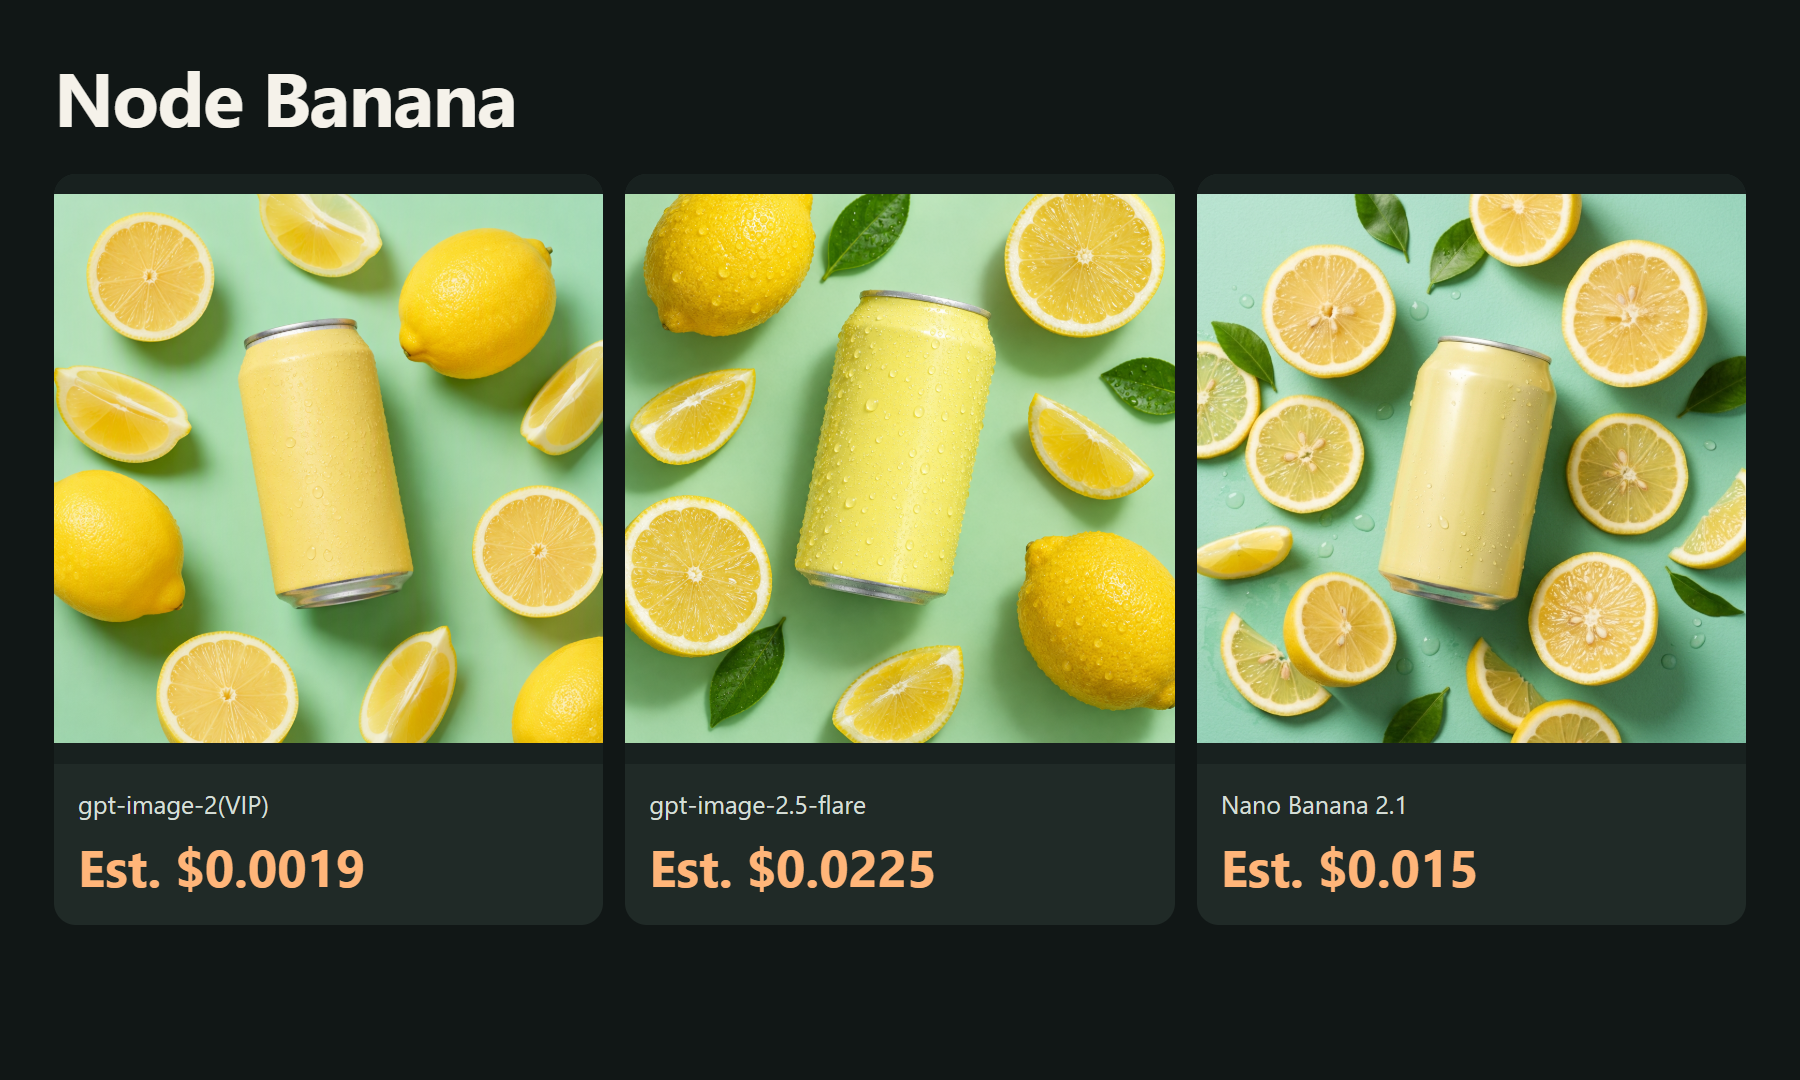
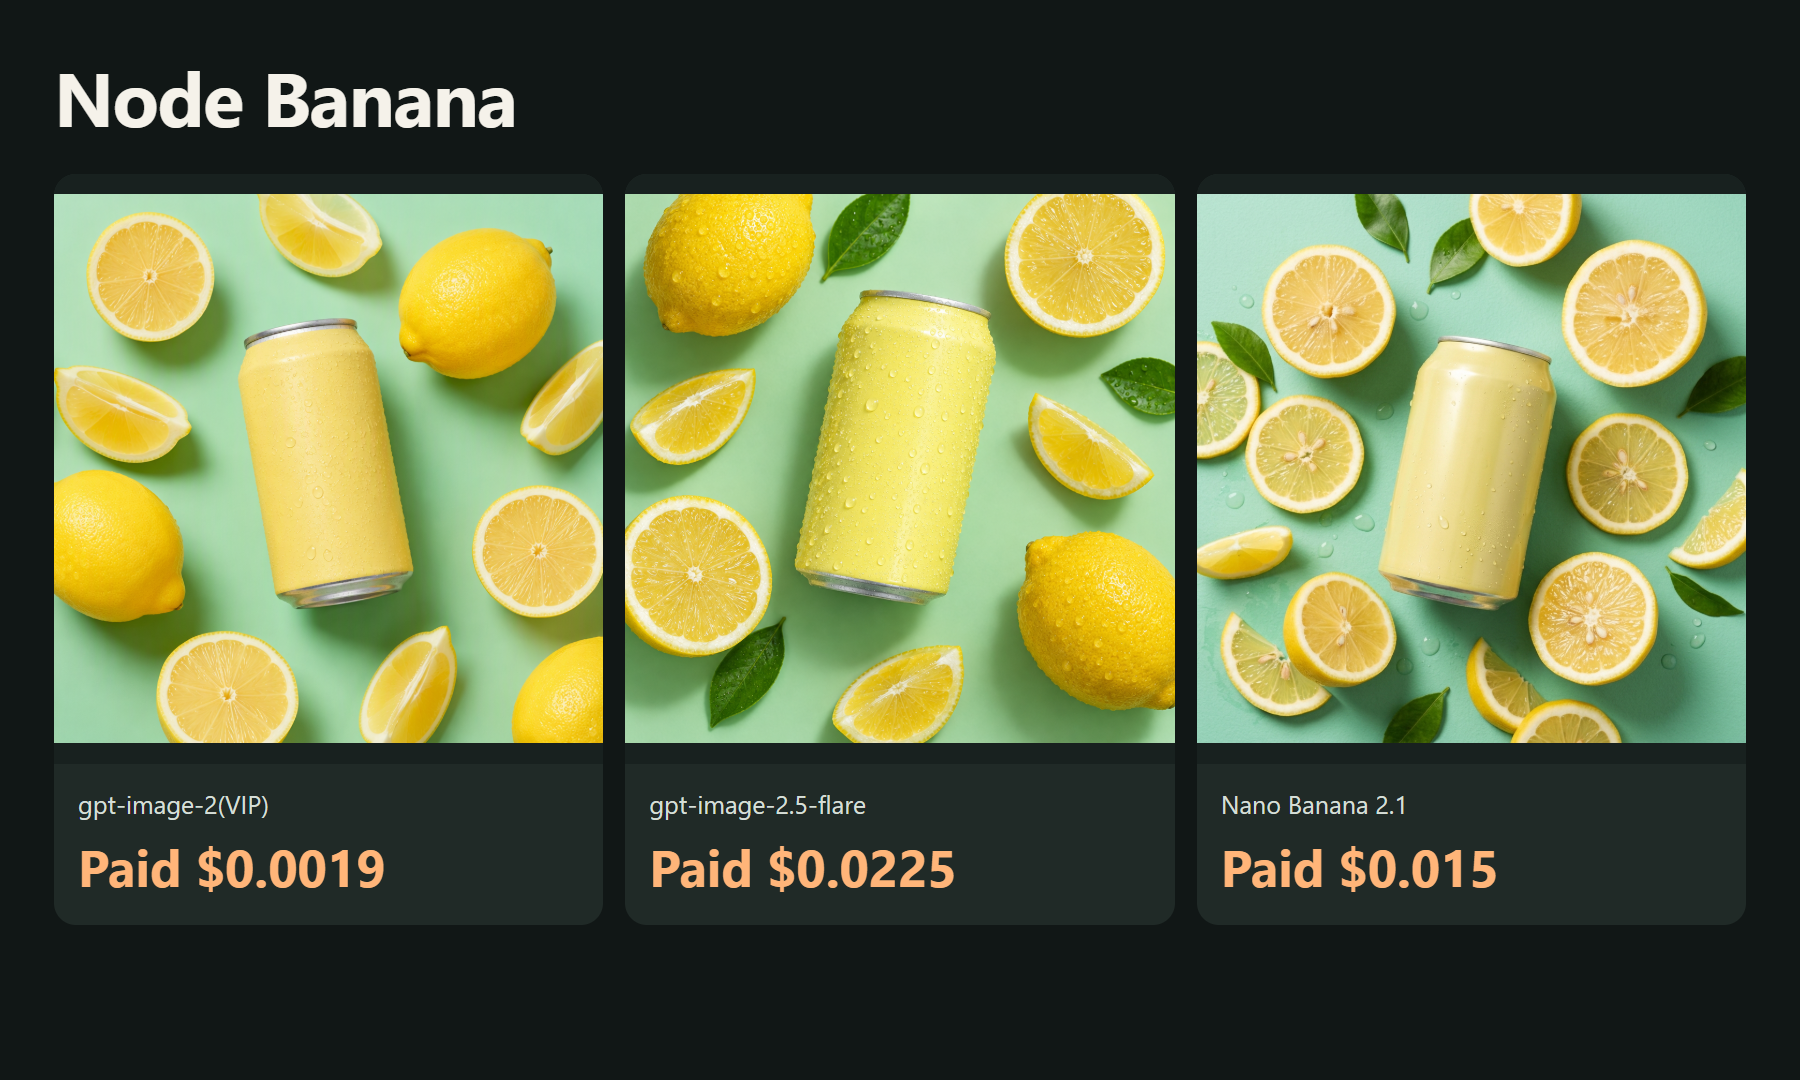
Publish original bilingual ToAPIs media examples, model pricing and real outputs

Changed region(s): [[0.0311, 0.7639, 0.2178, 0.825], [0.6844, 0.7639, 0.84, 0.825], [0.3733, 0.7639, 0.5289, 0.825]]

diff --git a/screenshots/cn/01-image-cases.html b/screenshots/cn/01-image-cases.html
@@ -1,1 +1,1 @@
-<!doctype html><html lang="zh-CN"><meta charset="utf-8"><title>Node Banana</title><style>*{box-sizing:border-box}html,body{margin:0;width:1800px;height:1080px;overflow:hidden}body{background:#111716;color:#f5f2ea;font-family:"Segoe UI","Microsoft YaHei",sans-serif}.page{padding:54px 54px 40px}h1{font-size:76px;line-height:1.1;margin:0 0 36px;font-weight:650;letter-spacing:-1.5px}.grid{display:grid;gap:22px}.case{background:#202a27;border-radius:22px;overflow:hidden}.case img{display:block;width:100%;height:590px;object-fit:contain;background:#18211f}.caption{padding:24px 24px 28px}.model{font-size:25px;line-height:1.3;color:#d5dfd7;white-space:nowrap}.price{font-size:51px;line-height:1.2;color:#ffb579;font-weight:650;margin-top:16px}.video .case img{height:610px}.video .model{font-size:30px}.video .price{font-size:50px}</style><main class="page "><h1>Node Banana</h1><div class="grid" style="grid-template-columns:repeat(3,1fr)"><section class="case"><img src="../../examples/gpt-image-2-vip.png"><div class="caption"><div class="model">gpt-image-2(VIP)</div><div class="price">预计 $0.0019</div></div></section><section class="case"><img src="../../examples/gpt-image-2-5-flare.png"><div class="caption"><div class="model">gpt-image-2.5-flare</div><div class="price">预计 $0.0225</div></div></section><section class="case"><img src="../../examples/gemini-nano-banana-2-1.png"><div class="caption"><div class="model">Nano Banana 2.1</div><div class="price">预计 $0.015</div></div></section></div></main></html>
+<!doctype html><html lang="zh-CN"><meta charset="utf-8"><title>Node Banana</title><style>*{box-sizing:border-box}html,body{margin:0;width:1800px;height:1080px;overflow:hidden}body{background:#111716;color:#f5f2ea;font-family:"Segoe UI","Microsoft YaHei",sans-serif}.page{padding:54px 54px 40px}h1{font-size:76px;line-height:1.1;margin:0 0 36px;font-weight:650;letter-spacing:-1.5px}.grid{display:grid;gap:22px}.case{background:#202a27;border-radius:22px;overflow:hidden}.case img{display:block;width:100%;height:590px;object-fit:contain;background:#18211f}.caption{padding:24px 24px 28px}.model{font-size:25px;line-height:1.3;color:#d5dfd7;white-space:nowrap}.price{font-size:51px;line-height:1.2;color:#ffb579;font-weight:650;margin-top:16px}.video .case img{height:610px}.video .model{font-size:30px}.video .price{font-size:50px}</style><main class="page "><h1>Node Banana</h1><div class="grid" style="grid-template-columns:repeat(3,1fr)"><section class="case"><img src="../../examples/gpt-image-2-vip.png"><div class="caption"><div class="model">gpt-image-2(VIP)</div><div class="price">实扣 $0.0019</div></div></section><section class="case"><img src="../../examples/gpt-image-2-5-flare.png"><div class="caption"><div class="model">gpt-image-2.5-flare</div><div class="price">实扣 $0.0225</div></div></section><section class="case"><img src="../../examples/gemini-nano-banana-2-1.png"><div class="caption"><div class="model">Nano Banana 2.1</div><div class="price">实扣 $0.015</div></div></section></div></main></html>

diff --git a/screenshots/en/01-image-cases.html b/screenshots/en/01-image-cases.html
@@ -1,1 +1,1 @@
-<!doctype html><html lang="en"><meta charset="utf-8"><title>Node Banana</title><style>*{box-sizing:border-box}html,body{margin:0;width:1800px;height:1080px;overflow:hidden}body{background:#111716;color:#f5f2ea;font-family:"Segoe UI","Microsoft YaHei",sans-serif}.page{padding:54px 54px 40px}h1{font-size:76px;line-height:1.1;margin:0 0 36px;font-weight:650;letter-spacing:-1.5px}.grid{display:grid;gap:22px}.case{background:#202a27;border-radius:22px;overflow:hidden}.case img{display:block;width:100%;height:590px;object-fit:contain;background:#18211f}.caption{padding:24px 24px 28px}.model{font-size:25px;line-height:1.3;color:#d5dfd7;white-space:nowrap}.price{font-size:51px;line-height:1.2;color:#ffb579;font-weight:650;margin-top:16px}.video .case img{height:610px}.video .model{font-size:30px}.video .price{font-size:50px}</style><main class="page "><h1>Node Banana</h1><div class="grid" style="grid-template-columns:repeat(3,1fr)"><section class="case"><img src="../../examples/gpt-image-2-vip.png"><div class="caption"><div class="model">gpt-image-2(VIP)</div><div class="price">Est. $0.0019</div></div></section><section class="case"><img src="../../examples/gpt-image-2-5-flare.png"><div class="caption"><div class="model">gpt-image-2.5-flare</div><div class="price">Est. $0.0225</div></div></section><section class="case"><img src="../../examples/gemini-nano-banana-2-1.png"><div class="caption"><div class="model">Nano Banana 2.1</div><div class="price">Est. $0.015</div></div></section></div></main></html>
+<!doctype html><html lang="en"><meta charset="utf-8"><title>Node Banana</title><style>*{box-sizing:border-box}html,body{margin:0;width:1800px;height:1080px;overflow:hidden}body{background:#111716;color:#f5f2ea;font-family:"Segoe UI","Microsoft YaHei",sans-serif}.page{padding:54px 54px 40px}h1{font-size:76px;line-height:1.1;margin:0 0 36px;font-weight:650;letter-spacing:-1.5px}.grid{display:grid;gap:22px}.case{background:#202a27;border-radius:22px;overflow:hidden}.case img{display:block;width:100%;height:590px;object-fit:contain;background:#18211f}.caption{padding:24px 24px 28px}.model{font-size:25px;line-height:1.3;color:#d5dfd7;white-space:nowrap}.price{font-size:51px;line-height:1.2;color:#ffb579;font-weight:650;margin-top:16px}.video .case img{height:610px}.video .model{font-size:30px}.video .price{font-size:50px}</style><main class="page "><h1>Node Banana</h1><div class="grid" style="grid-template-columns:repeat(3,1fr)"><section class="case"><img src="../../examples/gpt-image-2-vip.png"><div class="caption"><div class="model">gpt-image-2(VIP)</div><div class="price">Paid $0.0019</div></div></section><section class="case"><img src="../../examples/gpt-image-2-5-flare.png"><div class="caption"><div class="model">gpt-image-2.5-flare</div><div class="price">Paid $0.0225</div></div></section><section class="case"><img src="../../examples/gemini-nano-banana-2-1.png"><div class="caption"><div class="model">Nano Banana 2.1</div><div class="price">Paid $0.015</div></div></section></div></main></html>

diff --git a/screenshots/cn/02-video-case.html b/screenshots/cn/02-video-case.html
@@ -1,1 +1,1 @@
-<!doctype html><html lang="zh-CN"><meta charset="utf-8"><title>Node Banana</title><style>*{box-sizing:border-box}html,body{margin:0;width:1800px;height:1080px;overflow:hidden}body{background:#111716;color:#f5f2ea;font-family:"Segoe UI","Microsoft YaHei",sans-serif}.page{padding:54px 54px 40px}h1{font-size:76px;line-height:1.1;margin:0 0 36px;font-weight:650;letter-spacing:-1.5px}.grid{display:grid;gap:22px}.case{background:#202a27;border-radius:22px;overflow:hidden}.case img{display:block;width:100%;height:590px;object-fit:contain;background:#18211f}.caption{padding:24px 24px 28px}.model{font-size:25px;line-height:1.3;color:#d5dfd7;white-space:nowrap}.price{font-size:51px;line-height:1.2;color:#ffb579;font-weight:650;margin-top:16px}.video .case img{height:610px}.video .model{font-size:30px}.video .price{font-size:50px}</style><main class="page video"><h1>Node Banana</h1><div class="grid" style="grid-template-columns:repeat(2,1fr)"><section class="case"><img src="../../examples/gpt-image-2-vip.png"><div class="caption"><div class="model">gpt-image-2(VIP)</div><div class="price">预计 $0.0019</div></div></section><section class="case"><img src="../../demo/video-frame.jpg"><div class="caption"><div class="model">MiniMax H3 · 5s / 768p</div><div class="price">预计 $0.40</div></div></section></div></main></html>
+<!doctype html><html lang="zh-CN"><meta charset="utf-8"><title>Node Banana</title><style>*{box-sizing:border-box}html,body{margin:0;width:1800px;height:1080px;overflow:hidden}body{background:#111716;color:#f5f2ea;font-family:"Segoe UI","Microsoft YaHei",sans-serif}.page{padding:54px 54px 40px}h1{font-size:76px;line-height:1.1;margin:0 0 36px;font-weight:650;letter-spacing:-1.5px}.grid{display:grid;gap:22px}.case{background:#202a27;border-radius:22px;overflow:hidden}.case img{display:block;width:100%;height:590px;object-fit:contain;background:#18211f}.caption{padding:24px 24px 28px}.model{font-size:25px;line-height:1.3;color:#d5dfd7;white-space:nowrap}.price{font-size:51px;line-height:1.2;color:#ffb579;font-weight:650;margin-top:16px}.video .case img{height:610px}.video .model{font-size:30px}.video .price{font-size:50px}</style><main class="page video"><h1>Node Banana</h1><div class="grid" style="grid-template-columns:repeat(2,1fr)"><section class="case"><img src="../../examples/gpt-image-2-vip.png"><div class="caption"><div class="model">gpt-image-2(VIP)</div><div class="price">实扣 $0.0019</div></div></section><section class="case"><img src="../../demo/video-frame.jpg"><div class="caption"><div class="model">MiniMax H3 · 5s / 768p</div><div class="price">实扣 $0.40</div></div></section></div></main></html>

diff --git a/screenshots/en/02-video-case.html b/screenshots/en/02-video-case.html
@@ -1,1 +1,1 @@
-<!doctype html><html lang="en"><meta charset="utf-8"><title>Node Banana</title><style>*{box-sizing:border-box}html,body{margin:0;width:1800px;height:1080px;overflow:hidden}body{background:#111716;color:#f5f2ea;font-family:"Segoe UI","Microsoft YaHei",sans-serif}.page{padding:54px 54px 40px}h1{font-size:76px;line-height:1.1;margin:0 0 36px;font-weight:650;letter-spacing:-1.5px}.grid{display:grid;gap:22px}.case{background:#202a27;border-radius:22px;overflow:hidden}.case img{display:block;width:100%;height:590px;object-fit:contain;background:#18211f}.caption{padding:24px 24px 28px}.model{font-size:25px;line-height:1.3;color:#d5dfd7;white-space:nowrap}.price{font-size:51px;line-height:1.2;color:#ffb579;font-weight:650;margin-top:16px}.video .case img{height:610px}.video .model{font-size:30px}.video .price{font-size:50px}</style><main class="page video"><h1>Node Banana</h1><div class="grid" style="grid-template-columns:repeat(2,1fr)"><section class="case"><img src="../../examples/gpt-image-2-vip.png"><div class="caption"><div class="model">gpt-image-2(VIP)</div><div class="price">Est. $0.0019</div></div></section><section class="case"><img src="../../demo/video-frame.jpg"><div class="caption"><div class="model">MiniMax H3 · 5s / 768p</div><div class="price">Est. $0.40</div></div></section></div></main></html>
+<!doctype html><html lang="en"><meta charset="utf-8"><title>Node Banana</title><style>*{box-sizing:border-box}html,body{margin:0;width:1800px;height:1080px;overflow:hidden}body{background:#111716;color:#f5f2ea;font-family:"Segoe UI","Microsoft YaHei",sans-serif}.page{padding:54px 54px 40px}h1{font-size:76px;line-height:1.1;margin:0 0 36px;font-weight:650;letter-spacing:-1.5px}.grid{display:grid;gap:22px}.case{background:#202a27;border-radius:22px;overflow:hidden}.case img{display:block;width:100%;height:590px;object-fit:contain;background:#18211f}.caption{padding:24px 24px 28px}.model{font-size:25px;line-height:1.3;color:#d5dfd7;white-space:nowrap}.price{font-size:51px;line-height:1.2;color:#ffb579;font-weight:650;margin-top:16px}.video .case img{height:610px}.video .model{font-size:30px}.video .price{font-size:50px}</style><main class="page video"><h1>Node Banana</h1><div class="grid" style="grid-template-columns:repeat(2,1fr)"><section class="case"><img src="../../examples/gpt-image-2-vip.png"><div class="caption"><div class="model">gpt-image-2(VIP)</div><div class="price">Paid $0.0019</div></div></section><section class="case"><img src="../../demo/video-frame.jpg"><div class="caption"><div class="model">MiniMax H3 · 5s / 768p</div><div class="price">Paid $0.40</div></div></section></div></main></html>

diff --git a/README.md b/README.md
@@ -4,7 +4,7 @@
 
 Connect nodes to generate product images and clips.
 
-October 16, 2026: 3 real images and 1 real video. Catalog estimate for these completed assets: **$0.4394**; settled charges pending.
+October 16, 2026: 3 real images and 1 real video. Confirmed charge for these completed assets: **$0.4394 (87.88 credits)**, reconciled by task ID against the owner-provided dashboard export.
 
 [ToAPIs · model pricing and setup](https://go2v.toapis.com/nb16ge)
 
@@ -20,12 +20,12 @@ October 16, 2026: 3 real images and 1 real video. Catalog estimate for these com
 
 | Model | Preset | Catalog estimate / output | Settled charge |
 |---|---|---:|---|
-| gpt-image-2(VIP) | low / 1K | $0.0019 | pending |
-| gpt-image-2.5-flare | high / 1K | $0.0225 | pending |
-| Nano Banana 2.1 | 1K | $0.015 | pending |
-| MiniMax H3 | 5s / 768p / first-frame | $0.40 ($0.08/s) | pending |
+| gpt-image-2(VIP) | low / 1K | $0.0019 | $0.0019 |
+| gpt-image-2.5-flare | high / 1K | $0.0225 | $0.0225 |
+| Nano Banana 2.1 | 1K | $0.015 | $0.015 |
+| MiniMax H3 | 5s / 768p / first-frame | $0.40 ($0.08/s) | $0.4 |
 
-These are catalog estimates for the specified presets, not confirmed settled charges. Different models/presets do not imply equal quality. See evidence and examples for task records and originals.
+Catalog rates and confirmed charges match for these tested presets. Charges were reconciled against the owner-provided dashboard export at USD 0.005 per credit. Different models/presets do not imply equal quality. See evidence and examples for task records and originals.
 
 ## Run it
 

diff --git a/README_zh-CN.md b/README_zh-CN.md
@@ -4,7 +4,7 @@
 
 拖几个节点，批量做产品图和视频素材。
 
-2026-10-16：3张真实图片、1段真实视频；本批成功素材按价表估算 **$0.4394**，实际扣费待后台核对。
+2026-10-16：3张真实图片、1段真实视频；本批成功素材实扣 **$0.4394（87.88积分）**，已按后台导出逐任务核对。
 
 [ToAPIs · 对应模型价格与接入](https://go2v.toapis.com/nb16gc)
 
@@ -20,12 +20,12 @@
 
 | Model | Preset | Catalog estimate / output | Settled charge |
 |---|---|---:|---|
-| gpt-image-2(VIP) | low / 1K | $0.0019 | 待核对 |
-| gpt-image-2.5-flare | high / 1K | $0.0225 | 待核对 |
-| Nano Banana 2.1 | 1K | $0.015 | 待核对 |
-| MiniMax H3 | 5s / 768p / first-frame | $0.40 ($0.08/s) | 待核对 |
+| gpt-image-2(VIP) | low / 1K | $0.0019 | $0.0019 |
+| gpt-image-2.5-flare | high / 1K | $0.0225 | $0.0225 |
+| Nano Banana 2.1 | 1K | $0.015 | $0.015 |
+| MiniMax H3 | 5s / 768p / first-frame | $0.40 ($0.08/s) | $0.4 |
 
-以上是本次明确配置的费率估算，不是已结算金额；不同模型/画质不表示同等质量。每项任务、请求和原始文件见evidence与examples。
+对应配置的价表与本次实扣一致；实扣来自后台导出，1积分=$0.005。不同模型/画质不表示同等质量。逐任务记录和原始文件见evidence与examples。
 
 ## 怎么运行
 
